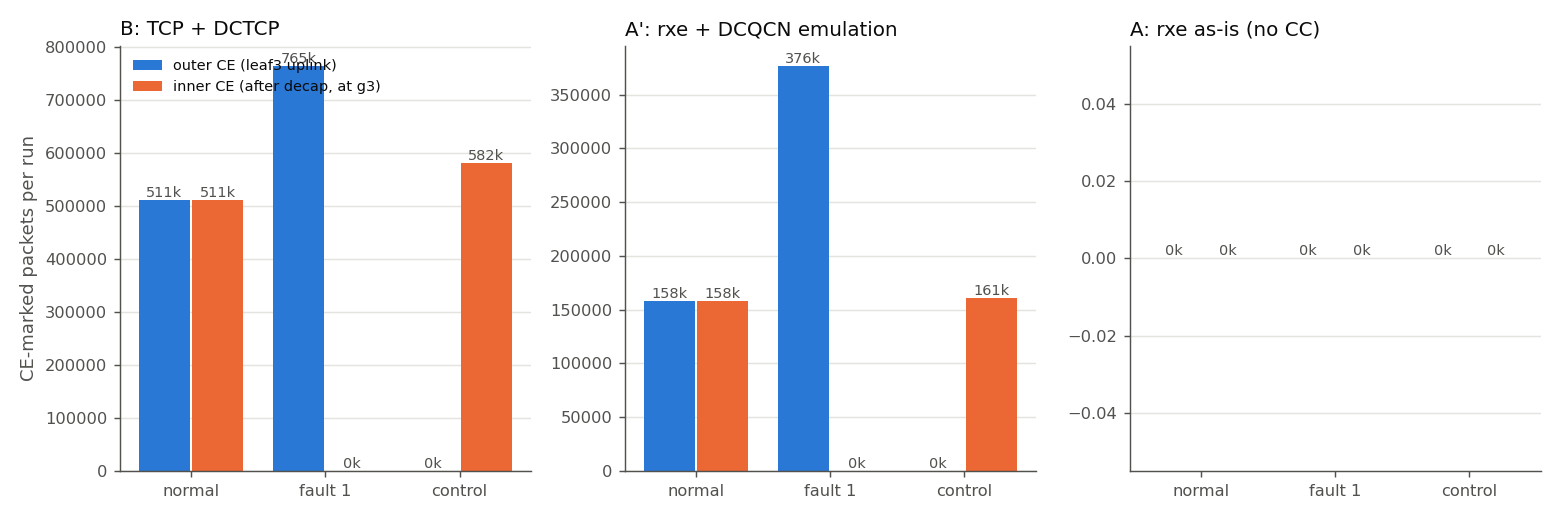
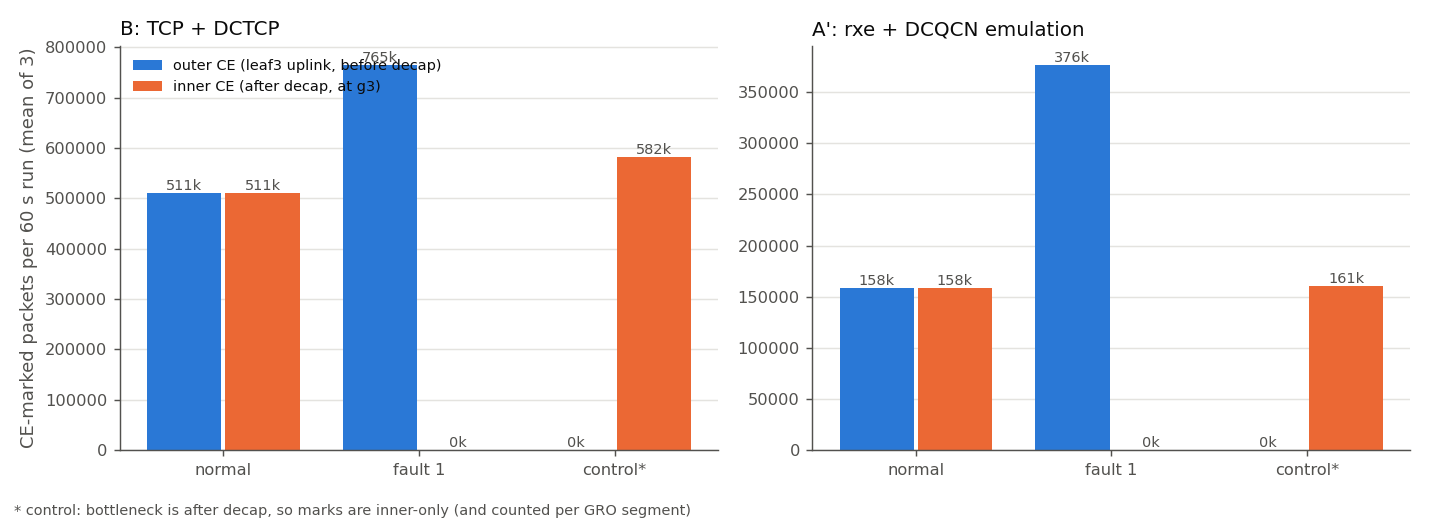
실험 16 2회차: 결과 정리 (트랙 B·A′ 60초 × 3회), 1회차와 비교, 실험 목록·대문·변경 기록 갱신
- 장애1 정지가 60초 창에서 3~4번 되풀이, 정지 중 빈 큐 드랍은 1회차와 같은 미해결 현상
- 흉내 DCQCN 에서는 장애2(−89%)가 장애1(−42%)보다 아프다 — TCP 와 순서가 뒤집힘
- 그래프를 회차별 선으로, 알림·재전송·드랍을 각자 축으로
- 18·19·20 을 진행 중 표에 (준비)로 추가

diff --git a/experiments/_wip/16-roce-vxlan-ecn/run2/scripts/analyze.py b/experiments/_wip/16-roce-vxlan-ecn/run2/scripts/analyze.py
@@ -117,57 +117,55 @@ def style(ax):
 
 def figs(S, T):
     plt.rcParams.update({"font.size": 10, "text.color": INK, "axes.labelcolor": INK2, "axes.titlesize": 11})
-    # 1) 처리량 시계열 — 반복 3회 평균, 트랙별 패널
-    fig, axs = plt.subplots(len(TRACKS), 1, figsize=(10, 9), sharex=True)
-    for ax, tr in zip(axs, TRACKS):
+    tracks = [t for t in TRACKS if (S.track == t).any() and len(S[S.track == t].scenario.unique()) == 4]
+    # 1) 처리량 시계열 — 회차별 가는 선(평균은 장애1 의 주기적 정지를 뭉갠다)
+    fig, axs = plt.subplots(len(tracks), 1, figsize=(10, 3.2 * len(tracks)), sharex=True, squeeze=False)
+    for ax, tr in zip(axs[:, 0], tracks):
         for sc in SCEN:
-            d = T[(T.track == tr) & (T.scenario == sc)].groupby("sec")["rx_mbit"].mean()
-            if len(d) < 10:
-                continue
-            ax.plot(d.index, d.values, color=COL[sc], lw=2, label=SNAME[sc])
-            ax.annotate(sc, (d.index[-8], d.values[-8]), color=INK2, fontsize=8, xytext=(0, 4), textcoords="offset points")
+            for k, rep in enumerate(sorted(T[(T.track == tr) & (T.scenario == sc)].rep.unique())):
+                d = T[(T.track == tr) & (T.scenario == sc) & (T.rep == rep)]
+                ax.plot(d.sec, d.rx_mbit, color=COL[sc], lw=1.6 if sc == "decap" else 1.2,
+                        alpha=0.95 if sc == "decap" else 0.7, label=SNAME[sc] if k == 0 else None)
         ax.axhline(300, color=INK2, lw=0.8, ls=":")
-        ax.set_title(TNAME[tr], loc="left"); ax.set_ylabel("Mbit/s at g3"); ax.set_ylim(0, 340); style(ax)
-    axs[-1].set_xlabel("seconds (mean of 3 runs; dotted = 300 Mbit bottleneck)")
-    axs[0].legend(loc="lower center", ncol=2, fontsize=8, frameon=False)
+        ax.set_title(TNAME[tr] + " — each line is one 60 s run", loc="left"); ax.set_ylabel("Mbit/s at g3"); ax.set_ylim(0, 340); style(ax)
+    axs[-1, 0].set_xlabel("seconds (dotted = 300 Mbit bottleneck)")
+    axs[0, 0].legend(loc="lower center", ncol=2, fontsize=8, frameon=True, facecolor="white", edgecolor=GRID)
     fig.tight_layout(); fig.savefig(os.path.join(FIG, "1-throughput.png"), dpi=130); plt.close(fig)
 
     # 2) 바깥 CE vs 안쪽 CE (정상 / 장애1 / 대조군), 반복 평균
-    fig, axs = plt.subplots(1, len(TRACKS), figsize=(12, 4))
-    for ax, tr in zip(axs, TRACKS):
+    fig, axs = plt.subplots(1, len(tracks), figsize=(5.5 * len(tracks), 4), squeeze=False)
+    for ax, tr in zip(axs[0], tracks):
         sc3 = ["base", "decap", "control"]
-        m = S[S.track == tr].groupby("scenario")[["sp_mark", "lf_mark", "outer_ce", "in_ce"]].mean().reindex(["base", "decap", "control"]).fillna(0)
+        m = S[S.track == tr].groupby("scenario")[["outer_ce", "in_ce"]].mean().reindex(sc3).fillna(0)
         x = range(len(sc3)); w = 0.38
-        oc = [m.loc[s, "outer_ce"] for s in sc3]; ic = [m.loc[s, "in_ce"] for s in sc3]
-        b1 = ax.bar([i - w / 2 - 0.01 for i in x], oc, w, color="#2a78d6", label="outer CE (leaf3 uplink)")
-        b2 = ax.bar([i + w / 2 + 0.01 for i in x], ic, w, color="#eb6834", label="inner CE (after decap, at g3)")
+        b1 = ax.bar([i - w / 2 - 0.01 for i in x], m.outer_ce, w, color="#2a78d6", label="outer CE (leaf3 uplink, before decap)")
+        b2 = ax.bar([i + w / 2 + 0.01 for i in x], m.in_ce, w, color="#eb6834", label="inner CE (after decap, at g3)")
         for b in list(b1) + list(b2):
             ax.annotate(f"{b.get_height()/1000:.0f}k", (b.get_x() + b.get_width() / 2, b.get_height()), ha="center",
                         va="bottom", fontsize=8, color=INK2)
-        ax.set_xticks(list(x)); ax.set_xticklabels(["normal", "fault 1", "control"]); ax.set_title(TNAME[tr], loc="left")
+        ax.set_xticks(list(x)); ax.set_xticklabels(["normal", "fault 1", "control*"]); ax.set_title(TNAME[tr], loc="left")
         style(ax)
-    axs[0].set_ylabel("CE-marked packets per run"); axs[0].legend(fontsize=8, frameon=False, loc="upper left")
-    fig.tight_layout(); fig.savefig(os.path.join(FIG, "2-ce-outer-inner.png"), dpi=130); plt.close(fig)
+    axs[0, 0].set_ylabel("CE-marked packets per 60 s run (mean of 3)"); axs[0, 0].legend(fontsize=8, frameon=False, loc="upper left")
+    fig.text(0.01, 0.01, "* control: bottleneck is after decap, so marks are inner-only (and counted per GRO segment)", fontsize=8, color=INK2)
+    fig.tight_layout(rect=(0, 0.04, 1, 1)); fig.savefig(os.path.join(FIG, "2-ce-outer-inner.png"), dpi=130); plt.close(fig)
 
-    # 3) 재전송·알림 — 트랙별 두 칸: 손실 쪽(재전송/NAK, 병목 드랍)과 신호 쪽(ECE/CNP)
-    fig, axs = plt.subplots(2, len(TRACKS), figsize=(12, 6.5))
-    for j, tr in enumerate(TRACKS):
+    # 3) 세 줄: 수신측 알림(ECE/CNP) · 재전송(NAK) · 병목 드랍 — 각자 자기 축
+    fig, axs = plt.subplots(3, len(tracks), figsize=(5.5 * len(tracks), 8.5), squeeze=False)
+    for j, tr in enumerate(tracks):
         m = S[S.track == tr].groupby("scenario")[["tcp_retrans", "nak_g3", "sp_drop", "lf_drop", "ece", "cnp"]].mean().reindex(SCEN)
         if tr == "tcp":
-            loss, lname, sig, sname = m["tcp_retrans"], "TCP retransmitted segments", m["ece"], "ECE ACKs from receiver"
+            rows = [(m["ece"], "receiver signal: ECE ACKs"), (m["tcp_retrans"], "TCP retransmitted segments"),
+                    (m["sp_drop"] + m["lf_drop"], "bottleneck drops")]
         else:
-            loss, lname, sig, sname = m["nak_g3"], "NAKs sent by g3 (go-back-N)", m["cnp"], "CNPs sent by g3"
-        drops = m["sp_drop"] + m["lf_drop"]
-        for i, (ax, vals, name) in enumerate([(axs[0][j], loss, lname), (axs[1][j], sig, sname)]):
+            rows = [(m["cnp"], "receiver signal: CNPs sent by g3"), (m["nak_g3"], "NAKs sent by g3 (go-back-N)"),
+                    (m["sp_drop"] + m["lf_drop"], "bottleneck drops")]
+        for i, (vals, name) in enumerate(rows):
+            ax = axs[i][j]
             bars = ax.bar(range(4), vals.values, 0.7, color=[COL[s] for s in SCEN])
             for b, v in zip(bars, vals.values):
                 ax.annotate(f"{v:,.0f}", (b.get_x() + b.get_width() / 2, v), ha="center", va="bottom", fontsize=8, color=INK2)
             ax.set_xticks(range(4)); ax.set_xticklabels(["normal", "fault 1", "fault 2", "control"], fontsize=8)
-            ax.set_title(f"{TNAME[tr]}\n{name}" if i == 0 else name, loc="left", fontsize=9); style(ax)
-            if i == 0:
-                ax.plot(range(4), drops.values, "o", color=INK, ms=6, label="bottleneck drops")
-                if j == 0:
-                    ax.legend(fontsize=8, frameon=False)
+            ax.set_title((TNAME[tr] + "\n" if i == 0 else "") + name, loc="left", fontsize=9); style(ax)
     fig.tight_layout(); fig.savefig(os.path.join(FIG, "3-retrans-signal.png"), dpi=130); plt.close(fig)
 
 

diff --git a/CHANGELOG.md b/CHANGELOG.md
@@ -13,6 +13,7 @@
 
 | 버전 | 기간 | 한 줄 |
 |---|---|---|
+| [v0.16](#v016--roce-over-vxlan-2회차-dscpecmpmac-이동-준비-2026-10-14--10-15) | 2026-10-14 ~ 10-15 | 실험 16 2회차(60초 × 3회, 흉내 DCQCN 트랙), 실험 18·19·20 준비 |
 | [v0.15](#v015--roce-over-vxlan-ecn-2026-10-15) | 2026-10-15 | 실험 16 RoCE over VXLAN: ECN 전달 누락 (짧은 회차) |
 | [v0.14](#v014--실험-폴더-정리-2026-10-14) | 2026-10-14 | 완료 실험은 `_completed/`, 진행 중은 `_wip/`, 옛 01 HTTP+MTU 삭제 |
 | [v0.13](#v013--실험-정리-2026-10-10) | 2026-10-10 | 14·15·16을 계획 중으로, 13을 12의 R8로, 16을 14의 2부로 합침 |
@@ -30,6 +31,21 @@
 | [v0.1](#v01--랩-초기-구성-2026-08-10) | 2026-08-10 | 스파인 2 + 리프 4 패브릭 |
 
 ---
+
+## v0.16 — RoCE over VXLAN 2회차, DSCP·ECMP·MAC 이동 준비 (2026-10-14 ~ 10-15)
+
+### 추가
+- 실험 16 2회차 `experiments/_wip/16-roce-vxlan-ecn/run2/`: 데스크톱에서 다른 구성(rxe 붙는 VRF g1~g4, 병목 300Mbit)으로 60초 × 3회. 트랙 A′(rxe + 실험 13 의 흉내 DCQCN) 추가, Step 1 에 4×4 디캡 ECN 표, 진단 스크립트 `diag-stall.sh`(미실행)
+- 실험 18 `_wip/18-vxlan-dscp-qos/`, 19 `_wip/19-vxlan-ecmp-entropy/`, 20 `_wip/20-evpn-mac-mobility/`: 스크립트와 실행 전 예측 (16 run2 의 setup.sh 를 같이 쓴다)
+
+### 변경
+- 처음 18번으로 만든 RoCE over VXLAN 데스크톱 회차를 노트북 1회차(16번)와 합쳐 `16-roce-vxlan-ecn/run2/` 로 옮김. 이어 만든 19·20·21 → 18·19·20 (17은 다른 작업이 쓰는 중)
+
+### 검증
+- 바깥 CE + 안쪽 Not-ECT 는 리눅스 vxlan 이 버린다 (`vxlan: non-ECT from … TOS=0x3`). 바깥 ECT(1) + 안쪽 ECT(0) → 안쪽 ECT(1). 안쪽 CE 는 바깥에 ECT(0)으로 (RFC 6040)
+- 장애 1 (TCP+DCTCP, 60초 × 3회): 276.5 → 144.1Mbit/s, ECE 358,941 → 6, srtt 0.9 → 22.3ms. 정지가 60초에 3~4번 반복, 정지 중 빈 큐 드랍 초당 1~4개(1회차와 같은 현상, 원인 미확정)
+- 흉내 DCQCN: 장애 1 −42%(CNP 26,118 → 0), **장애 2 −89%** — go-back-N 이라 TCP(장애 2 영향 없음)와 피해 순서가 뒤집힌다
+- rxe 그대로 트랙은 WSL 이 두 번 멈춰 정상 1회만 (합 145Mbit, 드랍 156,550, NAK 1,946)
 
 ## v0.15 — RoCE over VXLAN ECN (2026-10-15)
 

diff --git a/README.md b/README.md
@@ -93,7 +93,7 @@ A 12-container Clos (spine-leaf) datacenter fabric built with FRRouting and cont
 | 12 | [RoCEv2 성능 튜닝](experiments/_wip/12-roce/README.md) | Soft-RoCE를 커널에 올려 g1~g4(VRF)를 leaf에 붙임. 손실 주입, 3:1 인캐스트, QP 수, R8 ECN·DCQCN·PFC(진행 중) | 손실 1%에 RoCE **−75%**(TCP는 거의 그대로) — NAK 뒤 빠진 PSN부터 전부 다시 보내는 go-back-N. 얕은 큐 인캐스트는 포트의 6~9%로 붕괴(송신자가 65ms 타이머만 기다림). 타이머를 줄이면 드랍만 4배, 버퍼를 키우면 지연 100배, **송신 창 4**로 드랍 0·포트의 76~92%·ping 0.2ms |
 
 예정: 09 세션 테이블 고갈, 11 비대칭 라우팅 + 상태 기반 방화벽.
-진행 중([experiments/_wip/](experiments/_wip/README.md)): 08 EVPN-VXLAN 패킷 추적, 12 RoCEv2 성능 튜닝, 14 ACL과 방화벽 이중화, 15 EVPN 패브릭 위의 5G 코어, 16 RoCE over VXLAN: ECN 전달 누락 — 전체 목록은 [experiments/](experiments/README.md).
+진행 중([experiments/_wip/](experiments/_wip/README.md)): 08 EVPN-VXLAN 패킷 추적, 12 RoCEv2 성능 튜닝, 14 ACL과 방화벽 이중화, 15 EVPN 패브릭 위의 5G 코어, 16 RoCE over VXLAN: ECN 전달 누락, 18 VXLAN 바깥 DSCP 소실: 언더레이 QoS가 RoCE를 못 알아본다, 19 VXLAN의 ECMP 엔트로피: 바깥 헤더는 VTEP 쌍 하나, 20 EVPN MAC 이동과 중복 MAC 감지 — 전체 목록은 [experiments/](experiments/README.md).
 
 ## 빠른 시작
 

diff --git a/experiments/_wip/README.md b/experiments/_wip/README.md
@@ -8,4 +8,7 @@
 | 12 | [RoCEv2 성능 튜닝](12-roce/README.md) (R8 진행 중) |
 | 14 | [ACL과 방화벽 이중화](14-acl-vs-firewall/README.md) (1부 ACL vs 방화벽, 2부 ECMP 뒤의 방화벽 두 대) |
 | 15 | [EVPN 패브릭 위의 5G 코어](15-5g-core-evpn/README.md) |
-| 16 | [RoCE over VXLAN: ECN 전달 누락](16-roce-vxlan-ecn/README.md) (짧은 회차) |
+| 16 | [RoCE over VXLAN: ECN 전달 누락](16-roce-vxlan-ecn/README.md) (1회차 30초×2, 2회차 [run2/](16-roce-vxlan-ecn/run2/README.md) 60초×3) |
+| 18 | [VXLAN 바깥 DSCP 소실: 언더레이 QoS가 RoCE를 못 알아본다](18-vxlan-dscp-qos/README.md) (준비) |
+| 19 | [VXLAN의 ECMP 엔트로피: 바깥 헤더는 VTEP 쌍 하나](19-vxlan-ecmp-entropy/README.md) (준비) |
+| 20 | [EVPN MAC 이동과 중복 MAC 감지](20-evpn-mac-mobility/README.md) (준비) |
